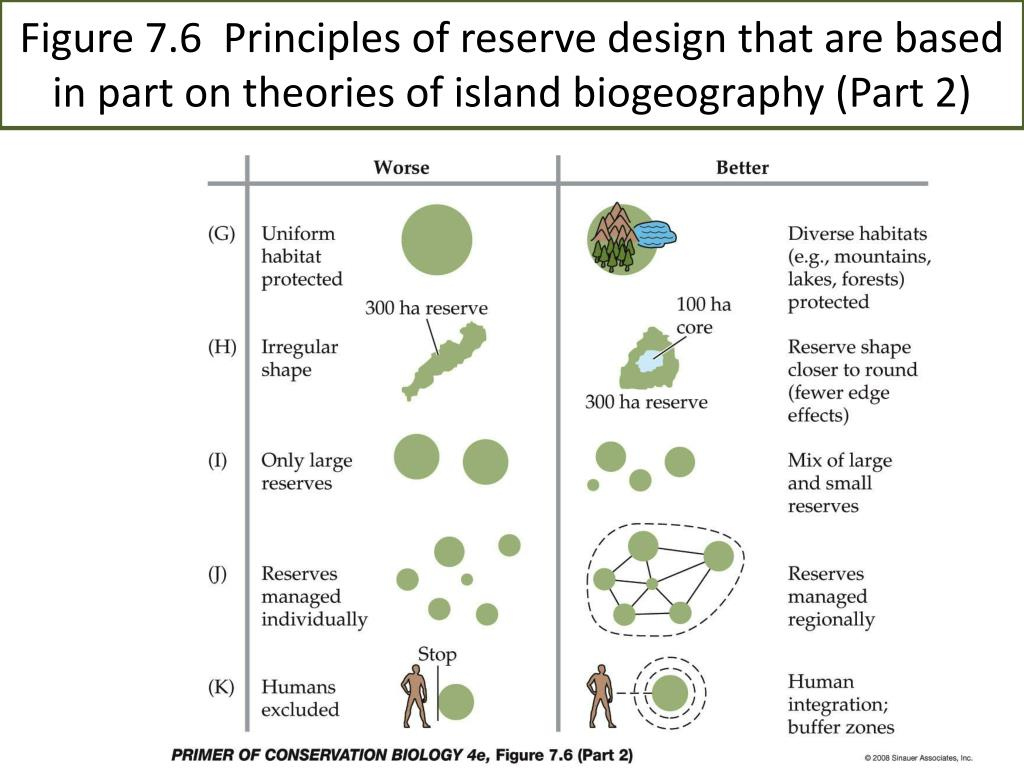
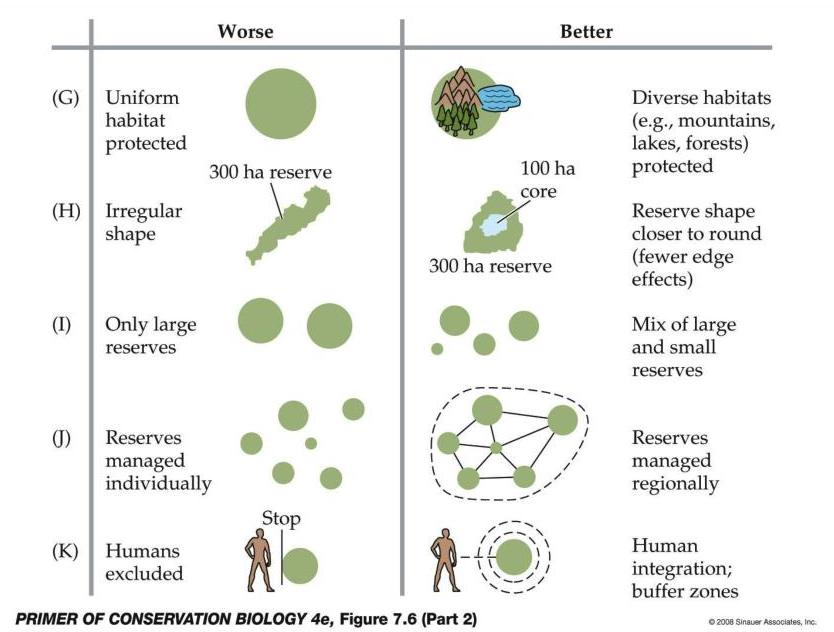
Actualizar nombres imágenes.

Changed region(s): [[0.0, 0.0, 1.0, 0.9921]]

diff --git a/guion_corredores_ecologicos_andalucia.md b/guion_corredores_ecologicos_andalucia.md
@@ -50,8 +50,11 @@ En este contexto, cuando los sistemas naturales están fragmentados, es importan
 
 Estos preceptos de la biogeografía de islas se aplican bien al diseño de redes de espacios protegidos. La siguiente figura muestra alguna de las ideas que se aplican en este sentido:
 
+<img src="https://github.com/aprendiendo-cosas/P_corredores_ecologia_ccaa/raw/main/images/04_enps_islas.jpg" alt="naturaleza" style="zoom:100%;" />
 
 
+
+En esta práctica nos centraremos en el concepto de [corredor ecológico](https://es.wikipedia.org/wiki/Corredor_ecol%C3%B3gico). Según la teoría de islas, es buena idea conectar los espacios naturales entre sí para maximizar el flujo de genes y con ello asegurar la conservación de la biodiversidad. 
 
 
 
@@ -64,13 +67,13 @@ Andalucía cuenta con una amplia red de espacios naturales protegidos. No en van
 
 
 
-![Mapa 1: Espacios de la Red Natura en Andalucía](https://github.com/aprendiendo-cosas/A_corredores_ecologia_ccaa/raw/2020-2021/images/1_enp.png)
+![Mapa 1: Espacios de la Red Natura en Andalucía](https://github.com/aprendiendo-cosas/A_corredores_ecologia_ccaa/raw/2020-2021/images/05_enp.png)
 
 
 
-Esta red de espacios protegidos incluye buena parte de todo el territorio considerado como "natural" en la región. Es decir, la mayoría de los bosques, matorrales o pastos naturales se encuentran dentro de la red de espacios protegidos. El siguiente mapa muestra la superficie ocupada por "vegetación natural" (verde) y por zonas no "naturales" (naranja. Cultivos, infraestructuras humanas, etc.). También se superponen el contorno de la red Natura 2000 y el de las principales infraestructuras viarias y núcleos urbanos.
+Esta red de espacios protegidos incluye buena parte de todo el territorio considerado como "natural" en la región. Es decir, la mayoría de los bosques, matorrales o pastos naturales se encuentran dentro de la red de espacios protegidos. Estos espacios protegidos son las islas de naturaleza que hemos comentado en el apartado anterior. El siguiente mapa muestra la superficie ocupada por "vegetación natural" (verde) y por zonas no "naturales" (naranja. Cultivos, infraestructuras humanas, etc.). También se superponen el contorno de la red Natura 2000 y el de las principales infraestructuras viarias y núcleos urbanos.
 
-![Mapa 2: distribución de vegetación natural en Andalucía](https://github.com/aprendiendo-cosas/A_corredores_ecologia_ccaa/raw/2020-2021/images/3_infraestructuras.png)
+![Mapa 2: distribución de vegetación natural en Andalucía](https://github.com/aprendiendo-cosas/A_corredores_ecologia_ccaa/raw/2020-2021/images/06_infraestructuras.png)
 
 
 
@@ -78,9 +81,9 @@ El fin último de este ejercicio es analizar en qué medida los espacios protegi
 
 Para empezar, recuerda que la biogeografía de islas describe cómo cambia la riqueza de especies de una serie de fragmentos aislados en función de su distancia y de su tamaño. La distancia afecta a la tasa de inmigración de especies y el tamaño afecta fundamentalmente a la tasa de extinción de especies. En este caso, evaluaremos cómo se pueden combinar una serie de criterios ecológicos con otros relacionados con la distribución de infraestructuras humanas para planificar la creación de una red de corredores ecológicos. 
 
-Dicho esto, tienes que generar un mapa que asigne un valor de idoneidad a cada punto del territorio no protegido en función de su capacidad de servir como corredor ecológico ([aquí](https://es.wikipedia.org/wiki/Corredor_ecol%C3%B3gico) tienes una definición general). El siguiente mapa muestra nuestra zona de estudio, que comprende todo el territorio andaluz no ocupado por la [Red Natura 2000](https://es.wikipedia.org/wiki/Red_Natura_2000). Ver mapa inferior.
+Dicho esto, tienes que generar un mapa que asigne un valor de idoneidad a cada punto del territorio no protegido en función de su capacidad de servir como corredor ecológico. El siguiente mapa muestra nuestra zona de estudio, que comprende todo el territorio andaluz no ocupado por la [Red Natura 2000](https://es.wikipedia.org/wiki/Red_Natura_2000). Ver mapa inferior.
 
-![Zona de estudio](https://github.com/aprendiendo-cosas/A_corredores_ecologia_ccaa/raw/2020-2021/images/zona_estudio.png)
+![Zona de estudio](https://github.com/aprendiendo-cosas/A_corredores_ecologia_ccaa/raw/2020-2021/images/07_zona_estudio.png)
 
 Para hacer este análisis tendrás que aplicar la técnica de evaluación multicriterio que aprendimos en la sesión sobre competencia intraespecífica. En este ejercicio, usaremos las siguientes variables ambientales:
 
@@ -96,7 +99,7 @@ Como sabes, el índice de Shannon permite conocer la diversidad de una comunidad
 
 Desde el punto de vista del objetivo de este trabajo, asumiremos que la idoneidad de un punto del territorio aumenta al hacerlo su biodiversidad. Los lugares con mayor índice de Shannon tienen más capacidad de albergar ecosistemas funcionales y por tanto de servir como corredores ecológicos. **Así que a más diversidad de Shannon, más idoneidad**. Es decir, para obtener el mapa de idoneidad se usa una función de transferencia directa y lineal. Abajo puedes descargar el mapa de idoneidad desde el punto de vista de la biodiversidad. El mapa muestra la distribución de la aptitud de cada punto de estudio en función del índice de Shannon. Los colores más azules indican más aptitud (mayor índice de Shannon). El color rojo indica menor aptitud (muy bajo índice de Shannon)
 
-![Mapa aptitud biodiversidad](https://github.com/aprendiendo-cosas/A_corredores_ecologia_ccaa/raw/2020-2021/images/apt_biodiv.png)
+![Mapa aptitud biodiversidad](https://github.com/aprendiendo-cosas/A_corredores_ecologia_ccaa/raw/2020-2021/images/08_apt_biodiv.png)
 
 
 
@@ -104,15 +107,18 @@ Desde el punto de vista del objetivo de este trabajo, asumiremos que la idoneida
 
 Según la biogeografía de islas, la distancia entre dos "islas" condiciona la probabilidad de que exista la inmigración. En nuestro caso las islas son los espacios protegidos (incluidos en la red Natura 2000), por lo que podemos asumir que un punto determinado del territorio funcionará tanto mejor como corredor cuanto más cerca esté de un espacio protegido. **A más distancia, menor idoneidad**. Es decir, para obtener este mapa de idoneidad se usó una función de transferencia indirecta y lineal. A continuacón puedes ver el mapa de idoneidad desde el punto de vista de la distancia a espacios de la red Natura 2000. Y [aquí](http://www.juntadeandalucia.es/medioambiente/site/portalweb/menuitem.220de8226575045b25f09a105510e1ca/?vgnextoid=d0e77b32b31f4310VgnVCM1000001325e50aRCRD) tienes información general sobre la red Natura 200 en Andalucía. 
 
-![Mapa de aptitud respecto a distancia a Red Natura 2000](https://raw.githubusercontent.com/aprendiendo-cosas/A_corredores_ecologia_ccaa/2020-2021/images/apt_dist_natura.png)
+![Mapa de aptitud respecto a distancia a Red Natura 2000](https://raw.githubusercontent.com/aprendiendo-cosas/A_corredores_ecologia_ccaa/2020-2021/images/09_apt_dist_natura.png)
 
+### Tamaño de los espacios protegidos
+Según la biogeografía de islas, al aumentar el tamaño de un fragmento natural también lo hace la capacidad del mismo de "exportar" especies a la matriz que lo rodea. De esta forma, dos puntos que se encuentren a la misma distancia de una isla (espacio protegido en nuestro caso) tendrán diferente aptitud para actuar como corredor en función del tamaño de la isla que tienen cerca. Es decir, los puntos de la matriz que estén cerca de una isla grande podrán comportarse como corredores con más probabilidad que los que estén cerca de una isla pequeña. Implementa esto en un SIG no es fácil. Para hacerlo hemos generado un mapa que asigna a cada píxel ocupado por matriz la superficie del espacio protegido (isla) más cercano. Puedes verlo a continuación:
 
+![Mapa de aptitud respecto al tamaño del ENP más cercano](https://raw.githubusercontent.com/aprendiendo-cosas/A_corredores_ecologia_ccaa/2020-2021/images/10_apt_dist_tamanio_ENP.png)
 
 ### Grado de naturalidad
 
 En este trabajo consideramos que un criterio importante para que un punto pueda ser considerado como corredor ecológico, es su grado de naturalidad. Distinguimos lugares con vegetación natural de otros que no tienen vegetación natural. Esta información procede del mapa [forestal español](https://www.mapa.gob.es/es/cartografia-y-sig/ide/descargas/desarrollo-rural/mfe.aspx). Para transformar esta variable de naturalidad en un criterio de aptitud, se considera que **a más naturalidad, más aptitud**. Como solo hay dos tipos de valores (natural o no natura), el mapa de aptitud generado tiene solo valores de 1 (zonas naturales) y 0 (zonas no naturales). El mapa de abajo muestra la distribuicón del grado de naturalidad.
 
-![Mapa de aptitud según naturalidad](https://raw.githubusercontent.com/aprendiendo-cosas/A_corredores_ecologia_ccaa/2020-2021/images/apt_naturalidad.png)
+![Mapa de aptitud según naturalidad](https://raw.githubusercontent.com/aprendiendo-cosas/A_corredores_ecologia_ccaa/2020-2021/images/11_apt_naturalidad.png)
 
 
 
@@ -120,13 +126,13 @@ En este trabajo consideramos que un criterio importante para que un punto pueda 
 
 Los criterios descritos anteriormente reflejan los aspectos ecológicos del problema que nos ocupa (biodiversidad, distancia a espacios protegidos, naturalidad de cada punto). Los tres criterios están relacionados con la biogeografía de islas. Sin embargo, además de la ecología, en este caso intervienen otros aspectos clave relacionados con la forma en la que el ser humano modifica el territorio y altera el funcionamiento de las infraestructuras naturales. Uno de los impactos principales procede de las infraestructuras viarias, que fragmentan el territorio e impiden en muchas ocasiones el libre tránsito de la fauna. En este sentido, se considera que la aptitud de un punto del territorio para actuar como corredor ecológico depende de su distancia a una infraestructura viaria. **A más distancia mayor aptitud**. De esta manera, abajo puedes ver un mapa de aptitud desde este punto de vista. Dicho mapa se muestra con la misma paleta de colores que en los demás mapas. 
 
-![Aptitud desde el punto de vista de la distancia a carreteras](https://raw.githubusercontent.com/aprendiendo-cosas/A_corredores_ecologia_ccaa/2020-2021/images/apt_dist_carreteras.png)
+![Aptitud desde el punto de vista de la distancia a carreteras](https://raw.githubusercontent.com/aprendiendo-cosas/A_corredores_ecologia_ccaa/2020-2021/images/12_apt_dist_carreteras.png)
 
 ### **Distancia a zonas urbanas**
 
 Otro elemento espacial de gran importancia para caracterizar la presencia de corredores ecológicos, son los núcleos urbanos. En este sentido, consideramos que la idoneidad de un punto del territorio para comportarse como corredor es tanto **mayor cuanto mayor sea la distancia al núcleo urbano más cercano**. Abajo puedes ver este mapa de aptitud.
 
-![Mapa de aptitud respecto a la distancia a zonas urbanas](https://raw.githubusercontent.com/aprendiendo-cosas/A_corredores_ecologia_ccaa/2020-2021/images/apt_dist_zona_urbana.png)
+![Mapa de aptitud respecto a la distancia a zonas urbanas](https://raw.githubusercontent.com/aprendiendo-cosas/A_corredores_ecologia_ccaa/2020-2021/images/13_apt_dist_zona_urbana.png)
 
 
 
@@ -138,7 +144,7 @@ En este ejercicio se considera que un punto ocupado por una vía pecuaria tiene 
 
 Abajo puedes mapa el mapa de idoneidad desde el punto de vista de la presencia de vías pecuarias. 
 
-![Mapa de aptitud respecto a la presencia de vías pecuarias](https://raw.githubusercontent.com/aprendiendo-cosas/A_corredores_ecologia_ccaa/2020-2021/images/apt_vias_pecuarias.png)
+![Mapa de aptitud respecto a la presencia de vías pecuarias](https://raw.githubusercontent.com/aprendiendo-cosas/A_corredores_ecologia_ccaa/2020-2021/images/14_apt_vias_pecuarias.png)
 
 
 
